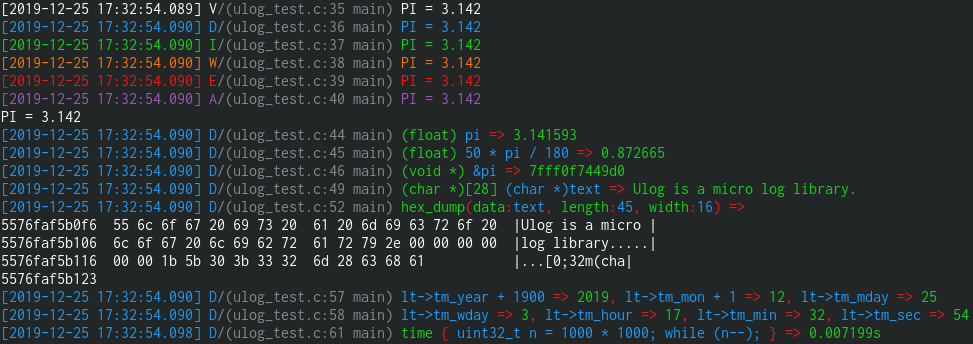
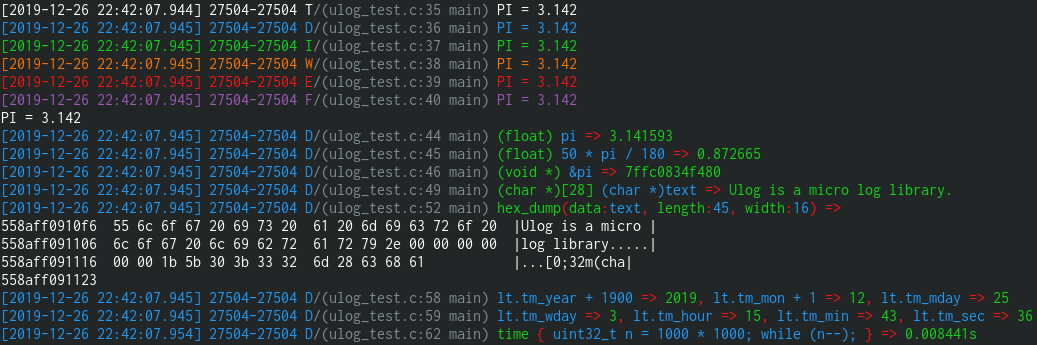
Change the output level name VERBOSE-> TRACE, ASSERT-> FATAL
Copy the time directly from localtime to avoid pointer rewriting

Changed region(s): [[0.0, 0.0, 1.0, 0.9884]]

diff --git a/src/ulog.c b/src/ulog.c
@@ -15,7 +15,7 @@
 #endif
 
 #if !defined(ULOG_DEFAULT_LEVEL)
-#define ULOG_DEFAULT_LEVEL ULOG_VERBOSE;
+#define ULOG_DEFAULT_LEVEL ULOG_TRACE;
 #endif
 
 // Lock the log mutex
@@ -91,12 +91,12 @@ enum {
 };
 
 static char *level_infos[ULOG_LEVEL_NUMBER][INDEX_MAX] = {
-    {(char *)STR_BOLD_WHITE, (char *)STR_WHITE, (char *)"V"},    // VERBOSE
+    {(char *)STR_BOLD_WHITE, (char *)STR_WHITE, (char *)"T"},    // TRACE
     {(char *)STR_BOLD_BLUE, (char *)STR_BLUE, (char *)"D"},      // DEBUG
     {(char *)STR_BOLD_GREEN, (char *)STR_GREEN, (char *)"I"},    // INFO
     {(char *)STR_BOLD_YELLOW, (char *)STR_YELLOW, (char *)"W"},  // WARN
     {(char *)STR_BOLD_RED, (char *)STR_RED, (char *)"E"},        // ERROR
-    {(char *)STR_BOLD_PURPLE, (char *)STR_PURPLE, (char *)"A"},  // ASSERT
+    {(char *)STR_BOLD_PURPLE, (char *)STR_PURPLE, (char *)"F"},  // FATAL
 };
 
 #endif  // !ULOG_DISABLE
@@ -352,10 +352,10 @@ void logger_log(LogLevel level, const char *file, const char *func,
         uint64_t time_ms = logger_get_time_us() / 1000;
         if (time_format_ == LOG_TIME_FORMAT_LOCAL_TIME) {
           time_t time_s = time_ms / 1000;
-          struct tm *ts = localtime(&time_s);
+          struct tm lt = *localtime(&time_s);
           SNPRINTF_WRAPPER("[%04d-%02d-%02d %02d:%02d:%02d.%03d] ",
-                           ts->tm_year + 1900, ts->tm_mon + 1, ts->tm_mday,
-                           ts->tm_hour, ts->tm_min, ts->tm_sec,
+                           lt.tm_year + 1900, lt.tm_mon + 1, lt.tm_mday,
+                           lt.tm_hour, lt.tm_min, lt.tm_sec,
                            (int)(time_ms % 1000));
         } else {
           SNPRINTF_WRAPPER("[%" PRId64 ".%03" PRId64 "] ", time_ms / 1000,

diff --git a/src/ulog.h b/src/ulog.h
@@ -14,22 +14,22 @@
  * @param fmt Format of the format string
  * @param ... Parameters in the format
  */
-#define LOG_VERBOSE(fmt, ...) _LOGGER_LOG(ULOG_VERBOSE, fmt, ##__VA_ARGS__)
+#define LOG_TRACE(fmt, ...) _LOGGER_LOG(ULOG_TRACE, fmt, ##__VA_ARGS__)
 #define LOG_DEBUG(fmt, ...) _LOGGER_LOG(ULOG_DEBUG, fmt, ##__VA_ARGS__)
 #define LOG_INFO(fmt, ...) _LOGGER_LOG(ULOG_INFO, fmt, ##__VA_ARGS__)
 #define LOG_WARN(fmt, ...) _LOGGER_LOG(ULOG_WARN, fmt, ##__VA_ARGS__)
 #define LOG_ERROR(fmt, ...) _LOGGER_LOG(ULOG_ERROR, fmt, ##__VA_ARGS__)
-#define LOG_ASSERT(fmt, ...) _LOGGER_LOG(ULOG_ASSERT, fmt, ##__VA_ARGS__)
+#define LOG_FATAL(fmt, ...) _LOGGER_LOG(ULOG_FATAL, fmt, ##__VA_ARGS__)
 
 // Prevent redefinition
 #if defined(ABORT)
 #undef ABORT
 #endif
 
-#define ABORT(fmt, ...) \
- do { \
-    LOG_ASSERT(fmt, ##__VA_ARGS__); \
-    logger_assert_handler();                      \
+#define ABORT(fmt, ...)            \
+  do {                             \
+    LOG_FATAL(fmt, ##__VA_ARGS__); \
+    logger_assert_handler();       \
   } while (0)
 
 // Prevent redefinition

diff --git a/test/ulog_test.cpp b/test/ulog_test.cpp
@@ -32,12 +32,12 @@ int main() {
 
   double pi = 3.14159265;
   // Different log levels
-  LOG_VERBOSE("PI = %.3f", pi);
+  LOG_TRACE("PI = %.3f", pi);
   LOG_DEBUG("PI = %.3f", pi);
   LOG_INFO("PI = %.3f", pi);
   LOG_WARN("PI = %.3f", pi);
   LOG_ERROR("PI = %.3f", pi);
-  LOG_ASSERT("PI = %.3f", pi);
+  LOG_FATAL("PI = %.3f", pi);
   LOG_RAW("PI = %.3f\r\n", pi);
 
   // Output debugging expression
@@ -53,9 +53,10 @@ int main() {
 
   // Output multiple tokens to one line
   time_t now = 1577259816;
-  struct tm *lt = localtime(&now);
-  LOG_MULTI_TOKEN(lt->tm_year + 1900, lt->tm_mon + 1, lt->tm_mday);
-  LOG_MULTI_TOKEN(lt->tm_wday, lt->tm_hour, lt->tm_min, lt->tm_sec);
+  struct tm lt = *localtime(&now);
+
+  LOG_MULTI_TOKEN(lt.tm_year + 1900, lt.tm_mon + 1, lt.tm_mday);
+  LOG_MULTI_TOKEN(lt.tm_wday, lt.tm_hour, lt.tm_min, lt.tm_sec);
 
   // Output execution time of some statements
   LOG_TIME_CODE(

diff --git a/src/ulog_common.h b/src/ulog_common.h
@@ -262,12 +262,12 @@ extern "C" {
 #endif
 
 typedef enum {
-  ULOG_VERBOSE = 0,
+  ULOG_TRACE = 0,
   ULOG_DEBUG,
   ULOG_INFO,
   ULOG_WARN,
   ULOG_ERROR,
-  ULOG_ASSERT,
+  ULOG_FATAL,
   ULOG_LEVEL_NUMBER
 } LogLevel;
 

diff --git a/README.md b/README.md
@@ -41,12 +41,12 @@ int main() {
 
   double pi = 3.14159265;
   // Different log levels
-  LOG_VERBOSE("PI = %.3f", pi);
+  LOG_TRACE("PI = %.3f", pi);
   LOG_DEBUG("PI = %.3f", pi);
   LOG_INFO("PI = %.3f", pi);
   LOG_WARN("PI = %.3f", pi);
   LOG_ERROR("PI = %.3f", pi);
-  LOG_ASSERT("PI = %.3f", pi);
+  LOG_FATAL("PI = %.3f", pi);
   LOG_RAW("PI = %.3f\r\n", pi);
 
   // Output debugging expression
@@ -62,9 +62,10 @@ int main() {
 
   // Output multiple tokens to one line
   time_t now = 1577259816;
-  struct tm *lt = localtime(&now);
-  LOG_MULTI_TOKEN(lt->tm_year + 1900, lt->tm_mon + 1, lt->tm_mday);
-  LOG_MULTI_TOKEN(lt->tm_wday, lt->tm_hour, lt->tm_min, lt->tm_sec);
+  struct tm lt = *localtime(&now);
+
+  LOG_MULTI_TOKEN(lt.tm_year + 1900, lt.tm_mon + 1, lt.tm_mday);
+  LOG_MULTI_TOKEN(lt.tm_wday, lt.tm_hour, lt.tm_min, lt.tm_sec);
 
   // Output execution time of some statements
   LOG_TIME_CODE(
